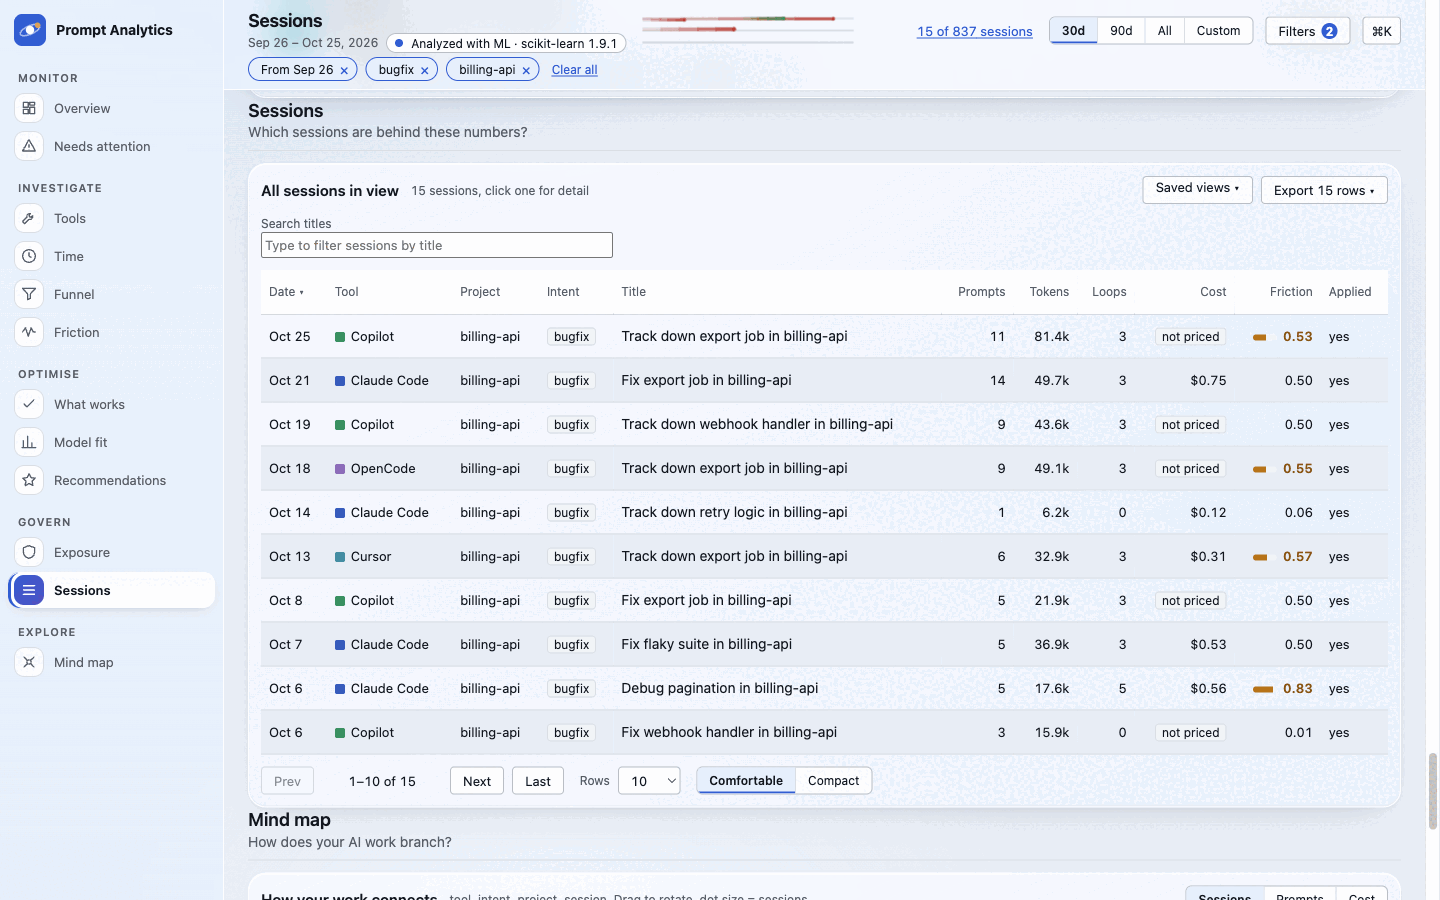
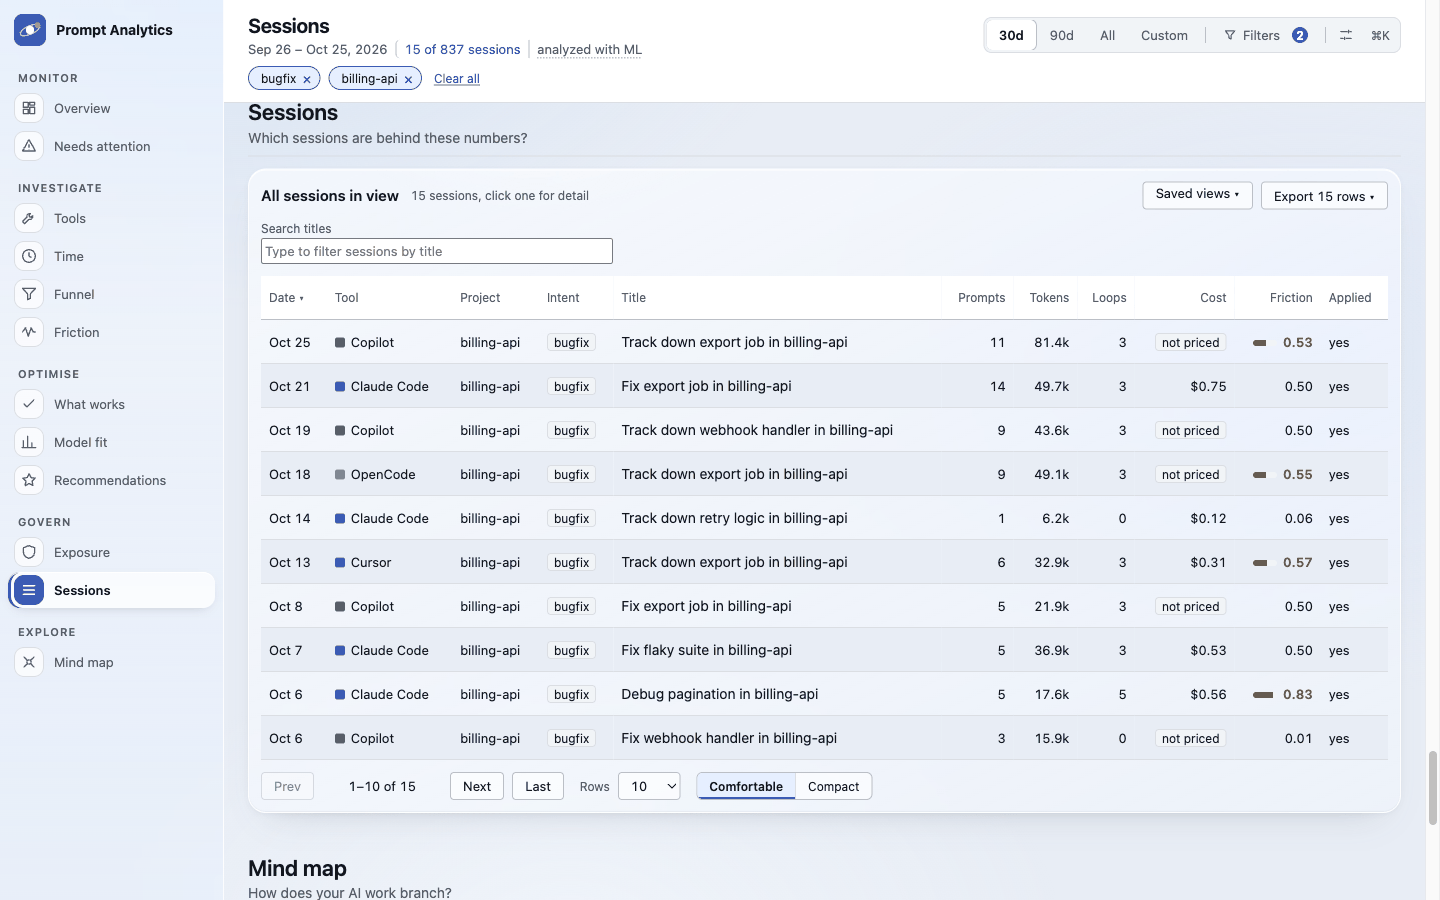
docs(site): refresh prompt analytics stills from the redesigned dashboard

diff --git a/site/prompt-analytics/index.html b/site/prompt-analytics/index.html
@@ -108,7 +108,7 @@ Your browser cannot play this video. The transcript below describes it.
 
 <h2>What you see</h2>
 <div class="shots">
-<figure><img src="../assets/prompt-analytics/overview.png" width="1440" height="900" loading="lazy" decoding="async" alt="Briefing: struggled sessions up from 3.9% to 11.0%, with KPI tiles for the last 30 days"><figcaption>Briefing: struggled sessions up from 3.9% to 11.0%, with KPI tiles for the last 30 days</figcaption></figure>
+<figure><img src="../assets/prompt-analytics/overview.png" width="1440" height="900" loading="lazy" decoding="async" alt="Briefing and key numbers: struggled sessions up from 3.9% to 11.0% over the last 30 days"><figcaption>Briefing and key numbers: struggled sessions up from 3.9% to 11.0% over the last 30 days</figcaption></figure>
 <figure><img src="../assets/prompt-analytics/funnel.png" width="1440" height="900" loading="lazy" decoding="async" alt="Funnel from intent to applied change, showing where sessions stall"><figcaption>Funnel from intent to applied change, showing where sessions stall</figcaption></figure>
 <figure><img src="../assets/prompt-analytics/exposure.png" width="1440" height="900" loading="lazy" decoding="async" alt="Exposure review queue with secret and PII findings masked"><figcaption>Exposure review queue with secret and PII findings masked</figcaption></figure>
 <figure><img src="../assets/prompt-analytics/drilldown.png" width="1440" height="900" loading="lazy" decoding="async" alt="Sessions table filtered to billing-api bugfix work, the driver of the change"><figcaption>Sessions table filtered to billing-api bugfix work, the driver of the change</figcaption></figure>
